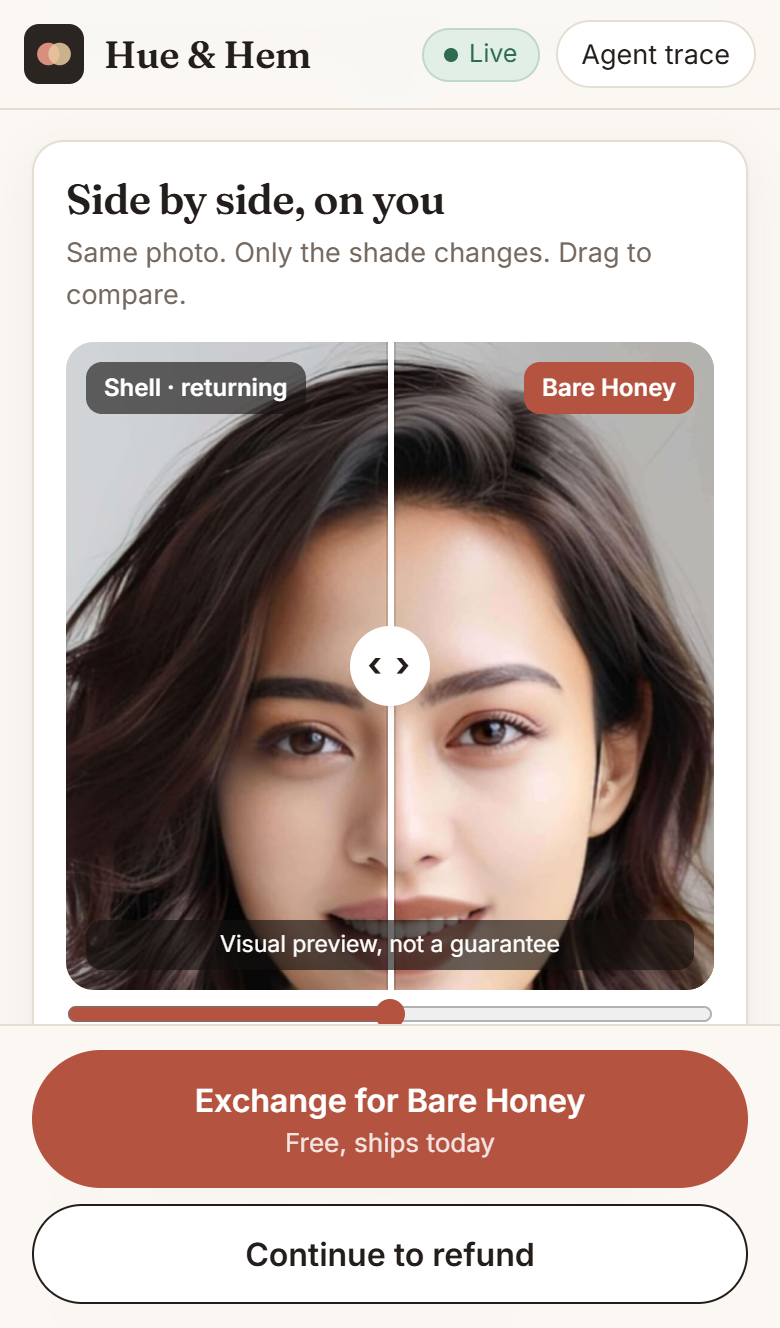
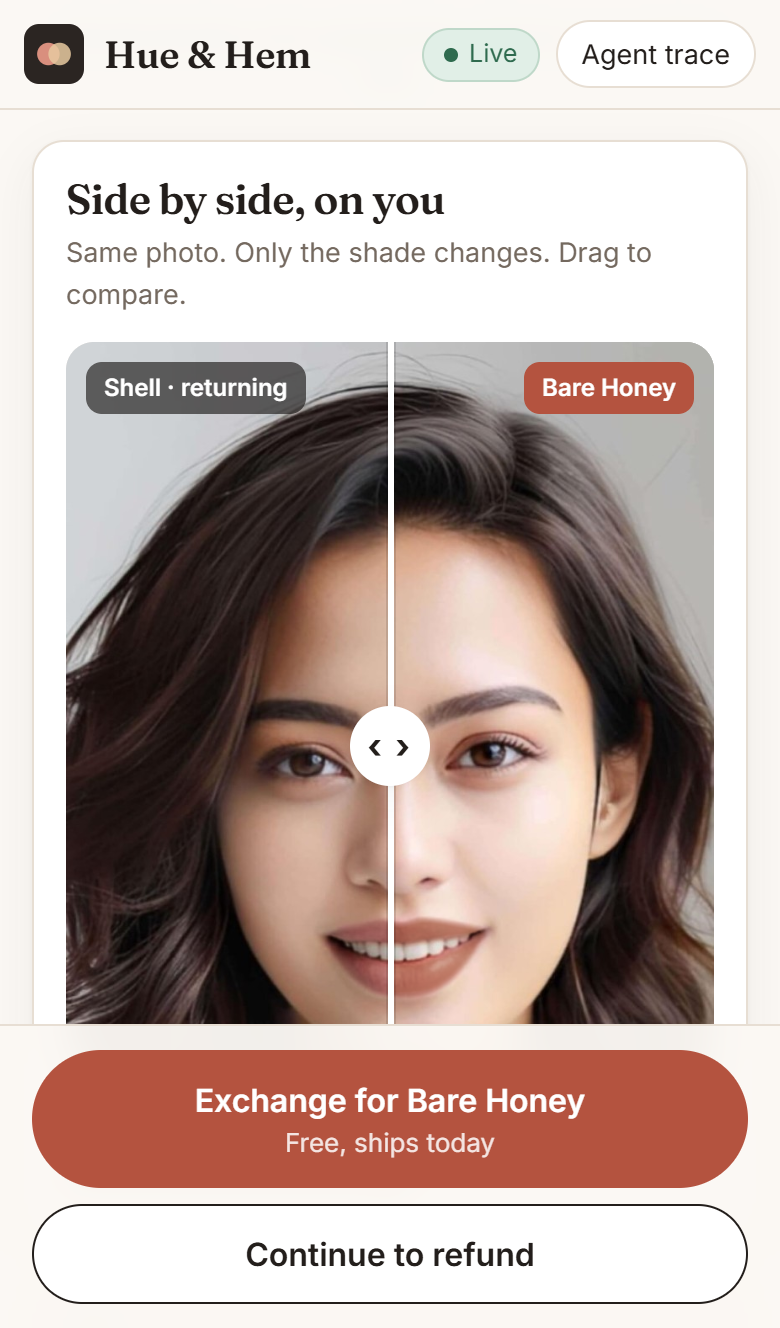
Before/after: 4:5 frame keeps eyes and lips in view; reveal plays when the card is in view
Claude-Session: https://claude.ai/code/session_013J8H7Yxp3cMY3Qm41Doi5L

Changed region(s): [[0.0615, 0.247, 0.9231, 0.7718], [0.1538, 0.494, 0.2462, 0.5866], [0.2462, 0.4631, 0.2769, 0.494]]

diff --git a/public/js/app.js b/public/js/app.js
@@ -562,17 +562,28 @@ function updateCompare(s) {
   box.addEventListener('pointermove', (e) => {
     if (box.hasPointerCapture(e.pointerId)) fromPointer(e);
   });
-  // A gentle one-time reveal, so the difference is noticed (skipped for reduced motion).
-  if (firstTime && !window.matchMedia('(prefers-reduced-motion: reduce)').matches) {
-    const t0 = performance.now();
-    const step = (t) => {
-      const k = Math.min(1, (t - t0) / 1400);
-      const ease = 1 - (1 - k) ** 3;
-      set(92 - 42 * ease);
-      if (k < 1) requestAnimationFrame(step);
-    };
+  // A gentle one-time reveal when the card comes into view, so the difference is noticed
+  // (skipped for reduced motion, or if the shopper already moved the slider).
+  if (firstTime && !window.matchMedia('(prefers-reduced-motion: reduce)').matches && 'IntersectionObserver' in window) {
+    let touched = false;
+    const mark = () => { touched = true; };
+    range.addEventListener('input', mark, { once: true });
+    box.addEventListener('pointerdown', mark, { once: true });
     set(92);
-    requestAnimationFrame(step);
+    const io = new IntersectionObserver((entries) => {
+      if (!entries.some((e) => e.intersectionRatio >= 0.9)) return;
+      io.disconnect();
+      if (touched) return;
+      const t0 = performance.now();
+      const step = (t) => {
+        if (touched) return;
+        const k = Math.min(1, (t - t0) / 1600);
+        set(92 - 42 * (1 - (1 - k) ** 3));
+        if (k < 1) requestAnimationFrame(step);
+      };
+      setTimeout(() => requestAnimationFrame(step), 250);
+    }, { threshold: [0.9] });
+    io.observe(box);
   }
 }
 

diff --git a/public/css/app.css b/public/css/app.css
@@ -261,9 +261,9 @@ details.how summary { cursor: pointer; color: var(--ink-2); }
 
 /* ---------- before / after ---------- */
 .compare { position: relative; aspect-ratio: 4 / 5; border-radius: 14px; overflow: hidden; background: var(--surface-2); touch-action: pan-y; cursor: ew-resize; user-select: none; -webkit-user-select: none; }
-.compare.face { aspect-ratio: 1 / 1; }
 .compare .layer { position: absolute; inset: 0; }
-.compare .layer img { width: 100%; height: 100%; object-fit: cover; object-position: center 20%; pointer-events: none; }
+/* 4:5 keeps a portrait render almost whole: eyes and lips both stay in frame, above the label */
+.compare .layer img { width: 100%; height: 100%; object-fit: cover; object-position: center 40%; pointer-events: none; }
 .compare .layer.b { clip-path: inset(0 0 0 var(--pos)); }
 .compare .handle { position: absolute; top: 0; bottom: 0; left: var(--pos); width: 3px; margin-left: -1.5px; background: #fff; box-shadow: 0 0 0 1px rgba(0, 0, 0, 0.12); pointer-events: none; }
 .compare .handle::after { content: '‹ ›'; position: absolute; top: 50%; left: 50%; transform: translate(-50%, -50%); width: 40px; height: 40px; border-radius: 50%; background: #fff; display: grid; place-items: center; box-shadow: var(--shadow); font-size: 17px; font-weight: 700; color: var(--ink); letter-spacing: 0.08em; }
